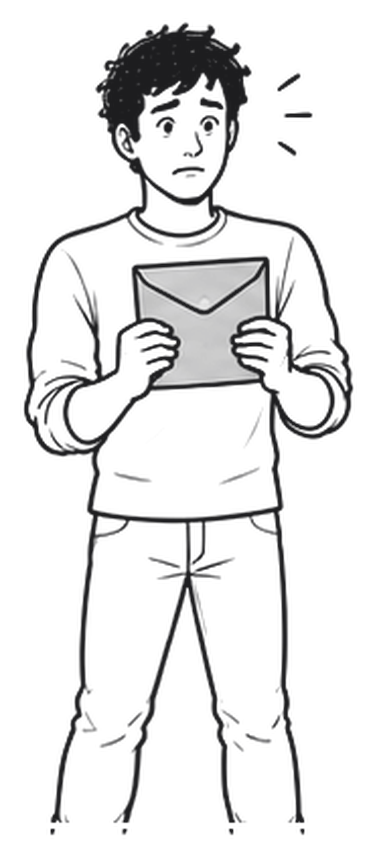
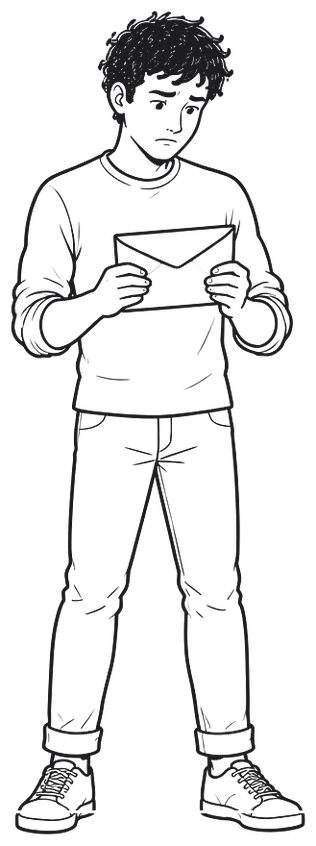
Pose library: magnifier, brown-envelope and cut-card redrawn with feet
Claude-Session: https://claude.ai/code/session_01CTvnLS7TEWDTE3fQyBDcgb

Changed region(s): [[0.0285, 0.0, 0.9684, 1.0], [0.6551, 0.7077, 0.712, 0.7385], [0.2848, 0.7077, 0.3133, 0.7385]]

diff --git a/video-pipeline/tests/test_poses.py b/video-pipeline/tests/test_poses.py
@@ -15,11 +15,17 @@ pc = importlib.util.module_from_spec(spec)
 spec.loader.exec_module(pc)
 
 
-def test_each_sheet_cuts_into_eight_panels():
+def test_each_sheet_cuts_into_as_many_panels_as_it_has_poses():
+    with open(os.path.join(ROOT, "library", "poses", "manifest.json"), encoding="utf-8") as fh:
+        from_sheet = {}
+        for e in json.load(fh):
+            from_sheet[e["source"]] = from_sheet.get(e["source"], 0) + 1
     src = os.path.join(ROOT, "library", "poses", "source")
     for f in sorted(os.listdir(src)):
         a = np.array(Image.open(os.path.join(src, f)).convert("L"))
-        assert len(pc.grid(a)) == 8, f
+        n = len(pc.grid(a))
+        # a sheet is a 4 x 2 grid or a short redo row, and holds at least the poses taken from it
+        assert n in (3, 8) and n >= from_sheet.get(f, 0), (f, n)
 
 
 def test_manifest_poses_have_files_feet_and_tags():

diff --git a/video-pipeline/docs/pose-library.md b/video-pipeline/docs/pose-library.md
@@ -93,7 +93,7 @@ Status: `have` = cut and in the library, blank = still to make.
 | atm | at a cash machine | withdraw, cash, ATM | |
 | bank-counter | at a bank counter with a clerk | bank, branch, open an account | |
 | ★ calculator | tapping a calculator | calculate, work out, maths | have |
-| ★ magnifier | reading small print with a magnifying glass | fees, small print, terms, check | have (no feet: redo) |
+| ★ magnifier | reading small print with a magnifying glass | fees, small print, terms, check | have |
 | crypto | holding a giant coin, nervous | crypto, bitcoin, gamble | |
 | pension-pot | putting coins into a pot labelled pension | pension, retire, workplace | |
 
@@ -149,7 +149,7 @@ Status: `have` = cut and in the library, blank = still to make.
 | pose | shows | tags | status |
 |---|---|---|---|
 | ★ buried | buried under a pile of bills | debt, bills, overwhelmed | |
-| ★ cut-card | cutting a credit card with scissors | cut up, credit card, stop | have (no feet: redo) |
+| ★ cut-card | cutting a credit card with scissors | cut up, credit card, stop | have |
 | debt-call | on the phone, sweating | debt collector, call, chased | |
 | awake | lying awake in bed at night | worry, can't sleep, stress | |
 | head-in-hands | sitting at a table, head in hands | stressed, stuck, can't afford | |
@@ -174,7 +174,7 @@ Status: `have` = cut and in the library, blank = still to make.
 
 | pose | shows | tags | status |
 |---|---|---|---|
-| ★ brown-envelope | holding a brown HMRC envelope, nervous | HMRC, tax, letter | have (no feet: redo) |
+| ★ brown-envelope | holding a brown HMRC envelope, nervous | HMRC, tax, letter | have |
 | tax-return | filling in a long form at a desk | tax return, self assessment | |
 | refund | opening a letter, delighted | refund, rebate, money back | |
 | queue | waiting in a long queue, bored | wait, queue, process | |
